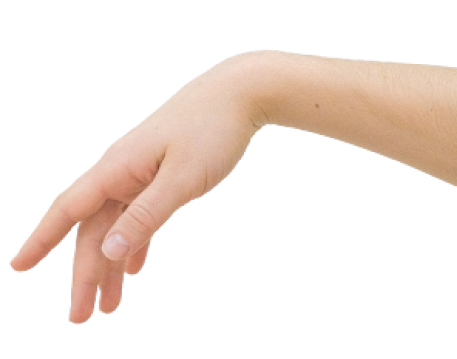
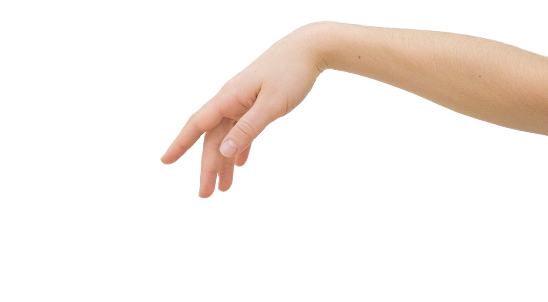
chore: prologue hand

Changed region(s): [[0.0, 0.0596, 1.0, 0.9238]]

diff --git a/src/pages/prologue/PrologueAsk.tsx b/src/pages/prologue/PrologueAsk.tsx
@@ -3,7 +3,7 @@ import React, { useEffect } from "react";
 import { img } from "../../assets/imgImport";
 
 import {
-  PrologueSection,
+  AskSection,
   PrologueTitle,
   AskTopContainer,
   PrologueAskTitleContainer,
@@ -18,7 +18,7 @@ import {
 
 function PrologueAsk() {
   return (
-    <PrologueSection>
+    <AskSection>
       <AskTopContainer>
         <PrologueAskTitleContainer>
           <AskTitleWrapper className="fade-class">
@@ -30,14 +30,14 @@ function PrologueAsk() {
             <PrologueTitle>하고 계신가요?</PrologueTitle>
           </AskTitleWrapper>
         </PrologueAskTitleContainer>
+        <PrologueAskImg src={img.bin} alt="bins" />
+      </AskTopContainer>
+      <PrologueAskImgWrapper className="fade-class">
         <AskHandWrapper className="fade-class">
           <AskHandImg src={img.hand} alt="hand" />
         </AskHandWrapper>
-      </AskTopContainer>
-      <PrologueAskImgWrapper className="fade-class">
-        <PrologueAskImg src={img.bin} alt="bins" />
       </PrologueAskImgWrapper>
-    </PrologueSection>
+    </AskSection>
   );
 }
 

diff --git a/src/styles/prologueStyles/PrologueStyle.tsx b/src/styles/prologueStyles/PrologueStyle.tsx
@@ -55,6 +55,12 @@ export const PrologueSection = styled.div`
   display: flow-root;
 `;
 
+export const AskSection = styled(PrologueSection)`
+  margin: 13% 8%;
+  margin-right: 0;
+  display: flex;
+`;
+
 export const PrologueTitle = styled.span<{ delay?: string }>`
   font-size: 1.5rem;
 
@@ -174,6 +180,7 @@ export const PrologueAskTitleContainer = styled.div`
 
 export const AskTopContainer = styled.div`
   display: flex;
+  flex-direction: column;
 `;
 
 export const AskTitleWrapper = styled.div<{ delay?: string }>`
@@ -193,7 +200,7 @@ export const AskHandWrapper = styled.div`
 `;
 
 export const AskHandImg = styled.img`
-  width: 10rem;
+  width: 100%;
 
   @media screen and (max-width: 768px) {
     display: none;
@@ -207,8 +214,8 @@ export const AskHandImg = styled.img`
 
 export const PrologueAskImgWrapper = styled.div`
   position: relative;
-  width: 15rem;
   width: 100%;
+  text-align: right;
 
   @media screen and (min-width: 768px) {
     max-width: 60%;
